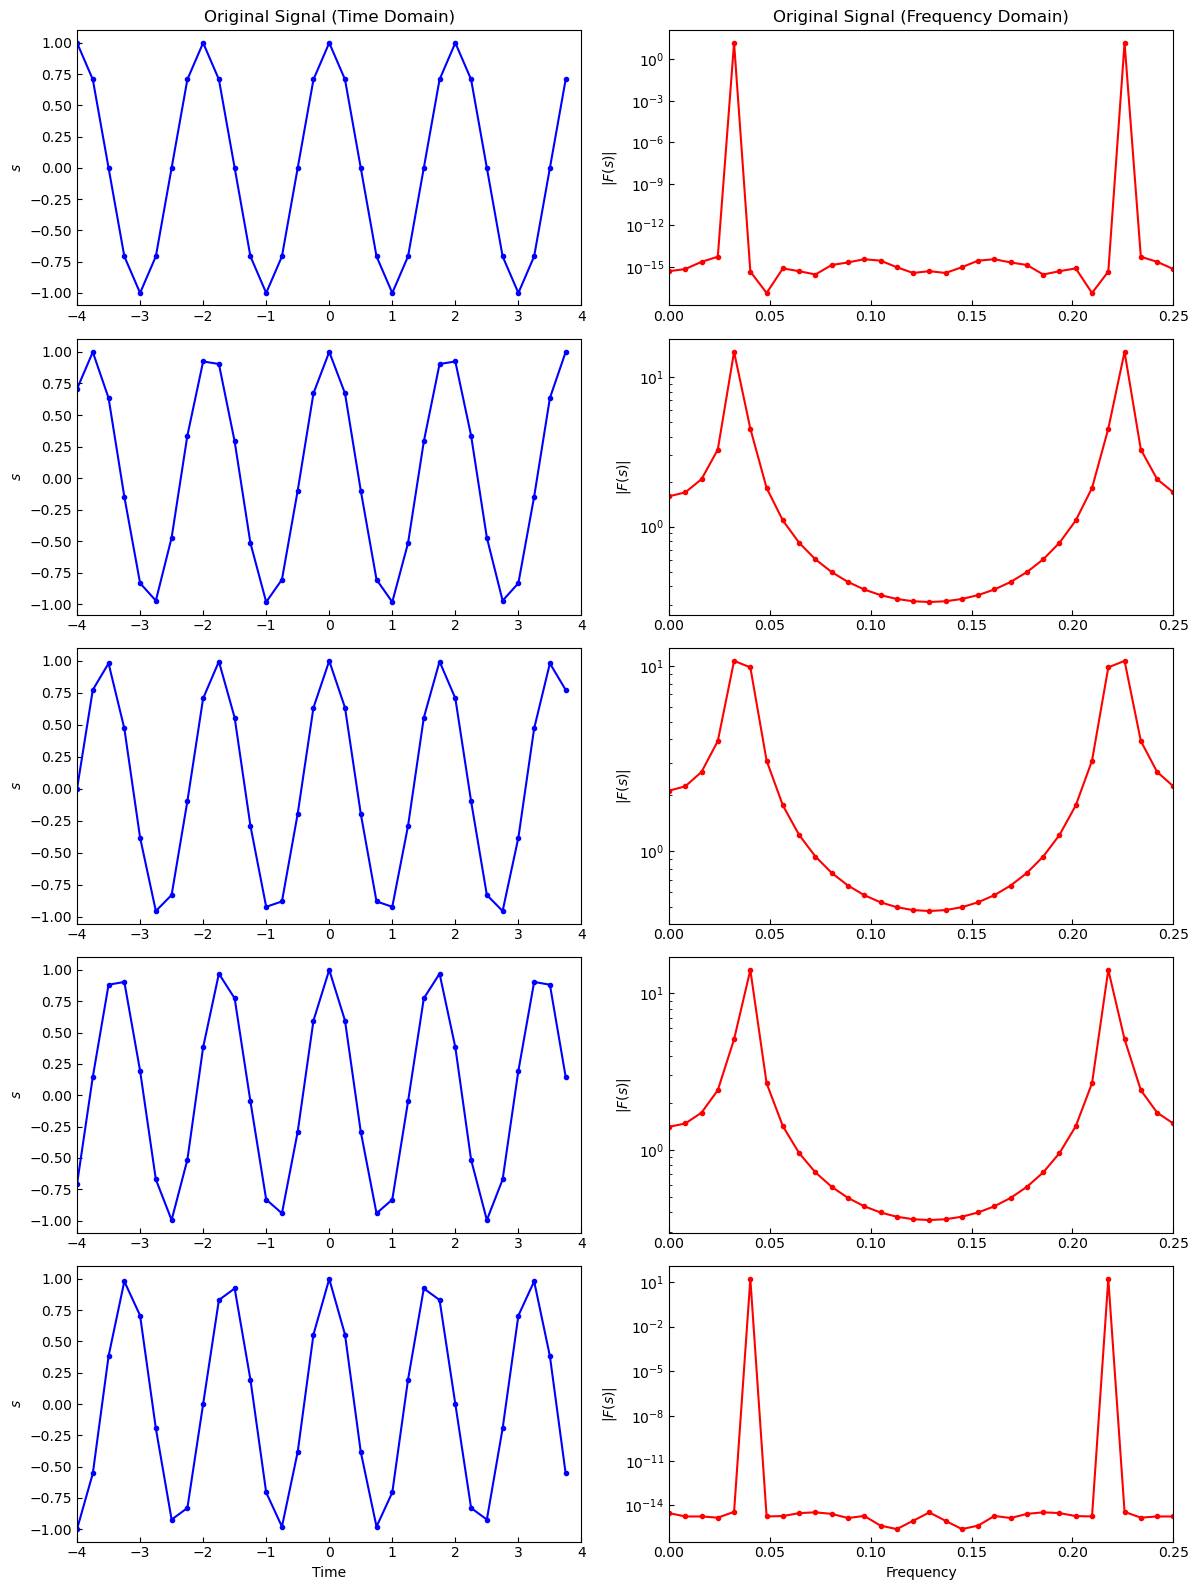
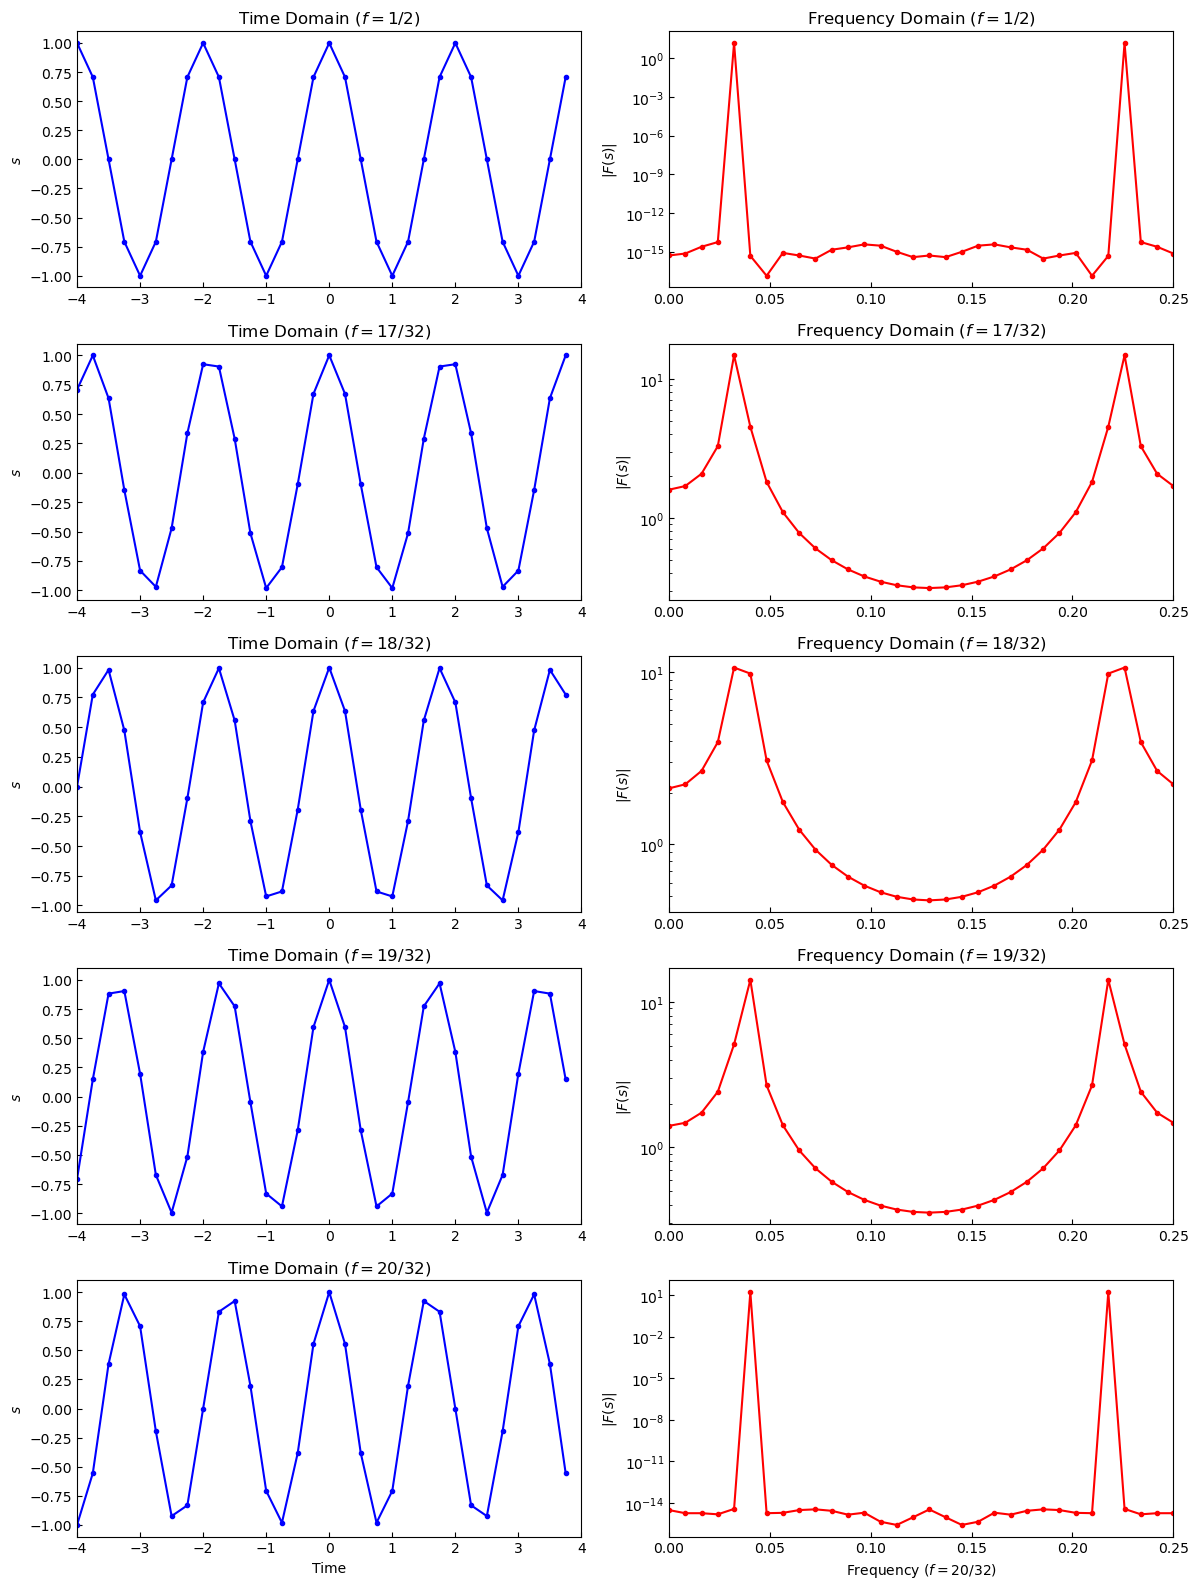
Update

diff --git a/fft/dft__leakage2.py b/fft/dft__leakage2.py
@@ -6,6 +6,7 @@ from scipy.fft import fft
 
 # Creating a 3x2 subplot structure
 fig, axs = plt.subplots(5, 2, figsize=(12, 16))
+#plt.subplots_adjust(hspace=10, wspace=10)
 
 # Sample rate and duration
 N = 8.0/32  # Hz
@@ -27,12 +28,12 @@ fft_original = fft(original_signal)
 
 # Plotting the original signal in time and frequency domain
 axs[0, 0].plot(t, original_signal, linestyle="-", color='blue', marker='o', label='line with marker', ms=3)
-axs[0, 0].set_title("Original Signal (Time Domain)")
+axs[0, 0].set_title(r"Time Domain ($f=1/2$)")
 axs[0, 0].set_ylabel("$s$")
 axs[0, 0].set_xlim(tmin, tmax)
 
 axs[0, 1].plot(freq, np.abs(fft_original), linestyle="-", color='red', marker='o', label='line with marker', ms=3)
-axs[0, 1].set_title("Original Signal (Frequency Domain)")
+axs[0, 1].set_title(r"Frequency Domain ($f=1/2$)")
 axs[0, 1].set_ylabel(r"$|F(s)|$")
 axs[0, 1].set_xlim(min(freq), max(freq))
 axs[0, 1].set_yscale('log')
@@ -46,10 +47,12 @@ fft_original = fft(original_signal)
 
 # Plotting the the signal in time and frequency domain
 axs[1, 0].plot(t, original_signal, linestyle="-", color='blue', marker='o', label='line with marker', ms=3)
+axs[1, 0].set_title(r"Time Domain ($f=17/32$)")
 axs[1, 0].set_ylabel("$s$")
 axs[1, 0].set_xlim(tmin, tmax)
 
 axs[1, 1].plot(freq, np.abs(fft_original), linestyle="-", color='red', marker='o', label='line with marker', ms=3)
+axs[1, 1].set_title(r"Frequency Domain ($f=17/32$)")
 axs[1, 1].set_ylabel(r"$|F(s)|$")
 axs[1, 1].set_xlim(min(freq), max(freq))
 axs[1, 1].set_yscale('log')
@@ -64,10 +67,12 @@ fft_original = fft(original_signal)
 
 # Plotting the windowed signal in time and frequency domain
 axs[2, 0].plot(t, original_signal, linestyle="-", color='blue', marker='o', label='line with marker', ms=3)
+axs[2, 0].set_title(r"Time Domain ($f=18/32$)")
 axs[2, 0].set_ylabel("$s$")
 axs[2, 0].set_xlim(tmin, tmax)
 
 axs[2, 1].plot(freq, np.abs(fft_original), linestyle="-", color='red', marker='o', label='line with marker', ms=3)
+axs[2, 1].set_title(r"Frequency Domain ($f=18/32$)")
 axs[2, 1].set_ylabel(r"$|F(s)|$")
 axs[2, 1].set_xlim(min(freq), max(freq))
 axs[2, 1].set_yscale('log')
@@ -82,10 +87,12 @@ fft_original = fft(original_signal)
 
 # Plotting the windowed signal in time and frequency domain
 axs[3, 0].plot(t, original_signal, linestyle="-", color='blue', marker='o', label='line with marker', ms=3)
+axs[3, 0].set_title(r"Time Domain ($f=19/32$)")
 axs[3, 0].set_ylabel("$s$")
 axs[3, 0].set_xlim(tmin, tmax)
 
 axs[3, 1].plot(freq, np.abs(fft_original), linestyle="-", color='red', marker='o', label='line with marker', ms=3)
+axs[3, 1].set_title(r"Frequency Domain ($f=19/32$)")
 axs[3, 1].set_ylabel(r"$|F(s)|$")
 axs[3, 1].set_xlim(min(freq), max(freq))
 axs[3, 1].set_yscale('log')
@@ -100,12 +107,13 @@ fft_original = fft(original_signal)
 
 # Plotting the windowed signal in time and frequency domain
 axs[4, 0].plot(t, original_signal, linestyle="-", color='blue', marker='o', label='line with marker', ms=3)
+axs[4, 0].set_title(r"Time Domain ($f=20/32$)")
 axs[4, 0].set_xlabel("Time")
 axs[4, 0].set_ylabel("$s$")
 axs[4, 0].set_xlim(tmin, tmax)
 
 axs[4, 1].plot(freq, np.abs(fft_original), linestyle="-", color='red', marker='o', label='line with marker', ms=3)
-axs[4, 1].set_xlabel("Frequency")
+axs[4, 1].set_xlabel("Frequency ($f=20/32$)")
 axs[4, 1].set_ylabel(r"$|F(s)|$")
 axs[4, 1].set_xlim(min(freq), max(freq))
 axs[4, 1].set_yscale('log')
